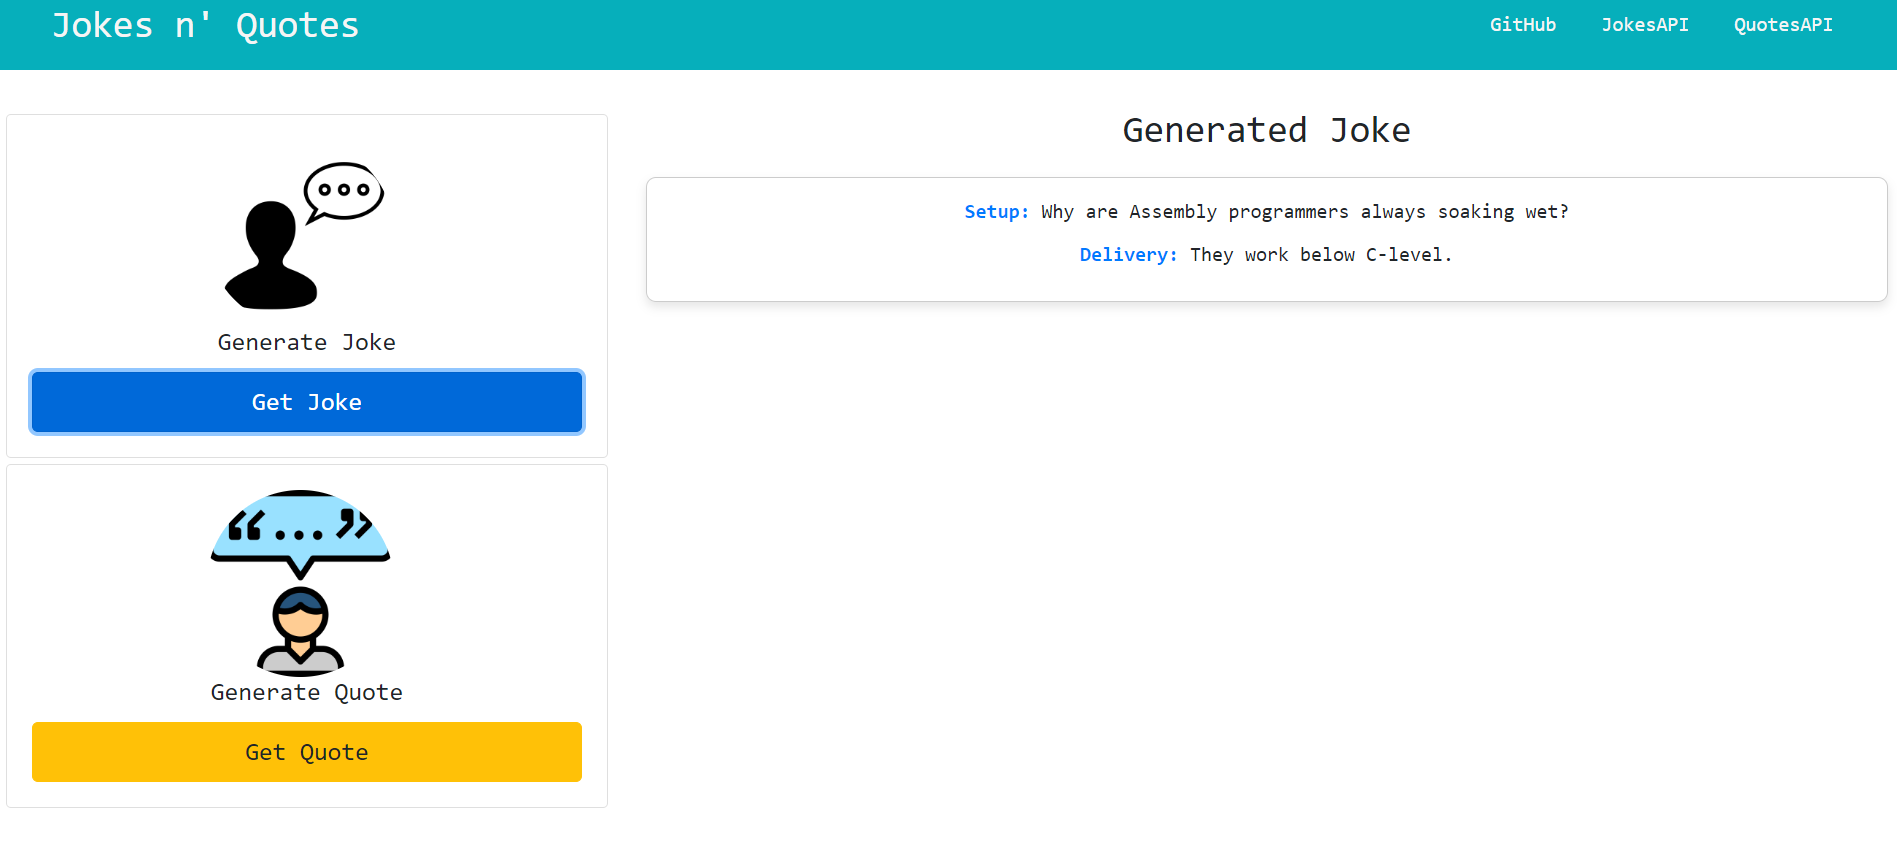
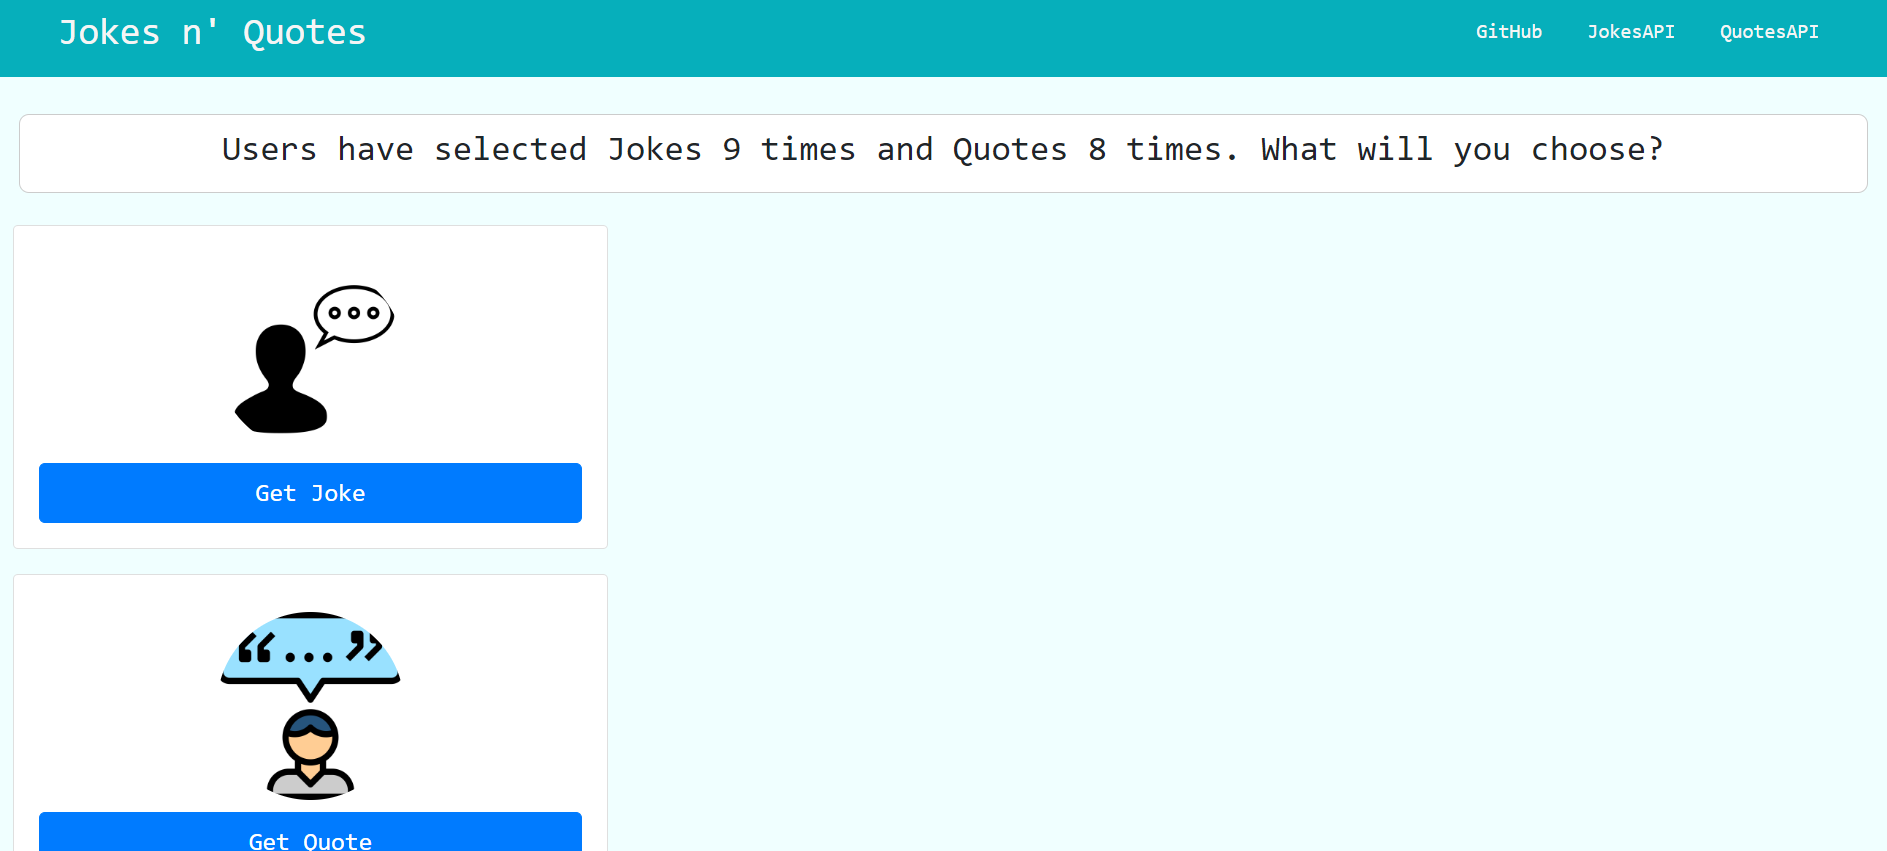
update readme file with new counter function

Changed region(s): [[0.0, 0.1228, 0.8914, 1.0], [0.0, 0.0, 1.0, 0.0921], [0.4918, 0.2456, 0.8299, 0.307]]

diff --git a/README.md b/README.md
@@ -22,15 +22,20 @@ This project is a simple web dashboard that allows users to generate jokes and I
 
 ## Screenshots
 
+* Here is a screenshot of the landing page, with the jokes and quotes counter showing and updating at all time.
+
+![Landing Page](./assets/images/screenshot-1.png)
+
+
 * Here is a screenshot of the webpage displaying a joke.
 * The API response is displayed in the main section of the page.
 
-![Joke](./assets/images/screenshot-1.png)
+![Joke](./assets/images/screenshot-2.png)
 
 * Here is a screenshot of the webpage displaying a quote.
 * The API response is displayed in a modal.
 
-![Quote](./assets/images/screenshot-2.png)
+![Quote](./assets/images/screenshot-3.png)
 
 
 ## Technologies
